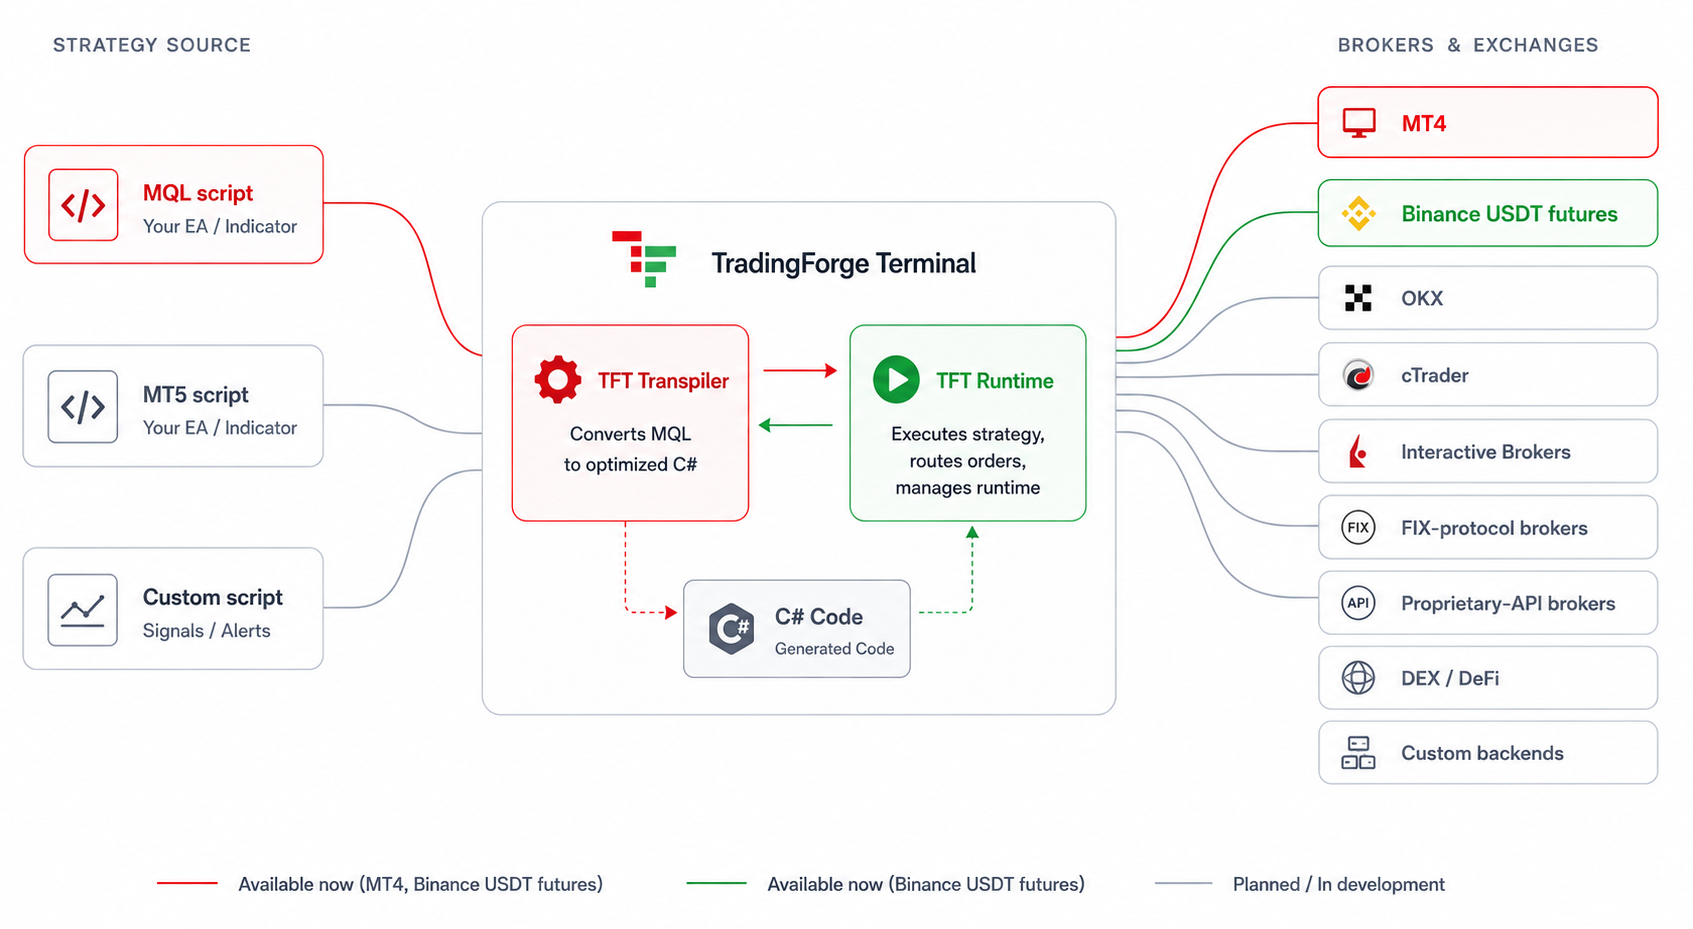
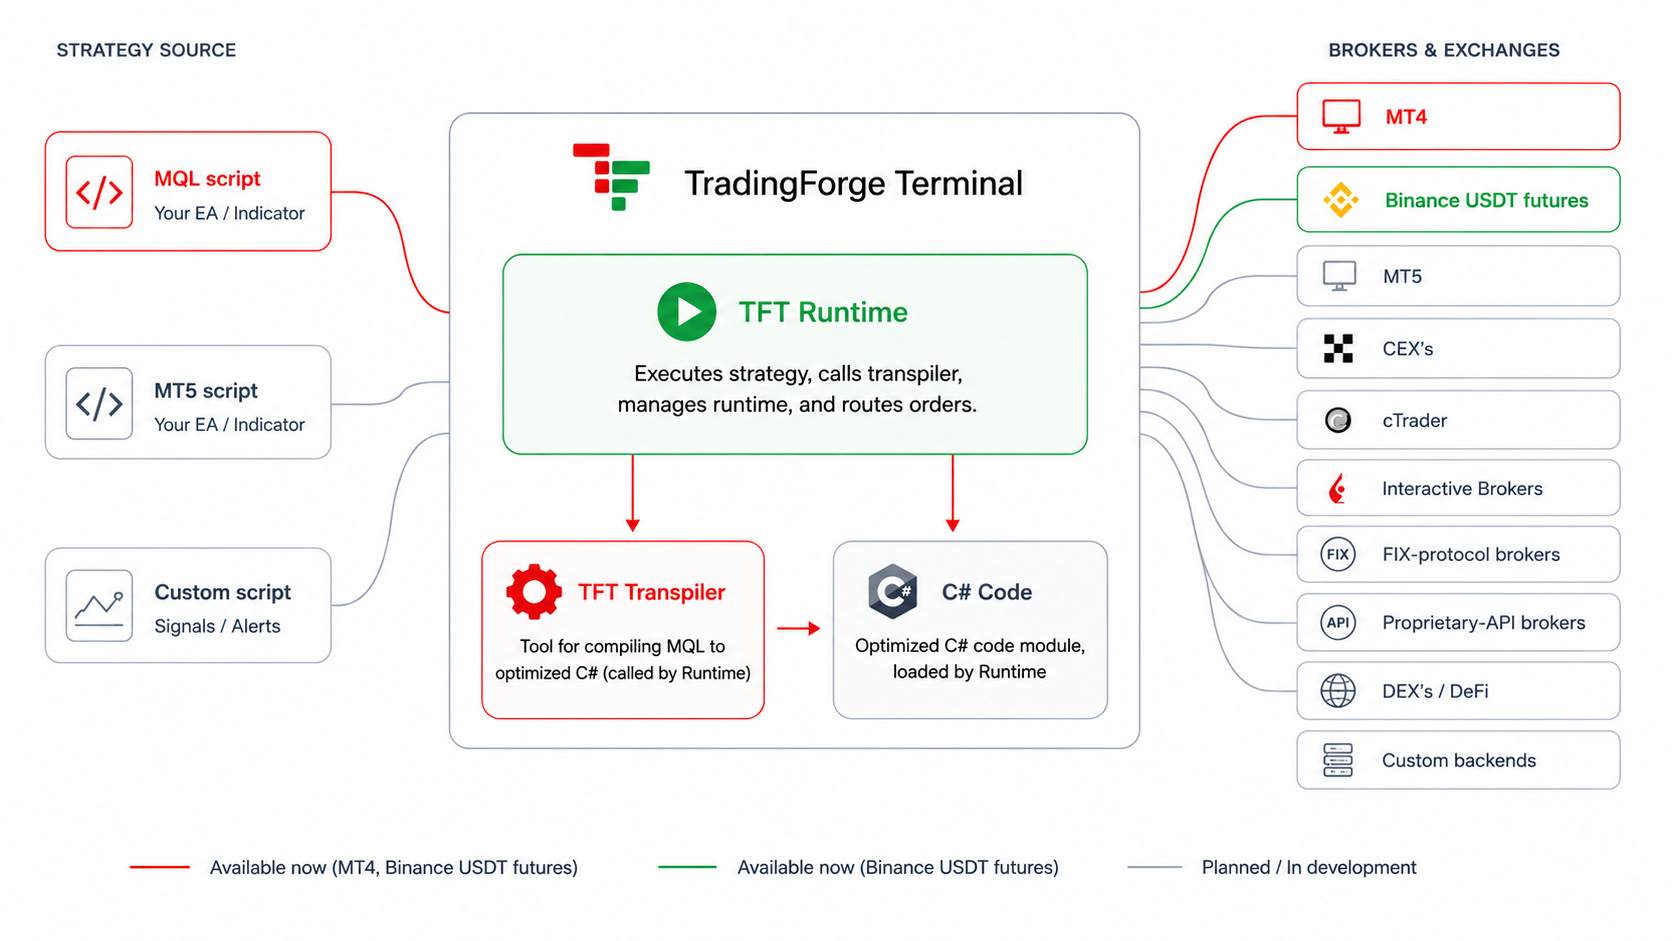
docs: update README from public-repo source

diff --git a/README.md b/README.md
@@ -69,7 +69,7 @@ same EA that ran in MetaTrader runs here, against brokers MetaTrader never suppo
 the runtime, which routes orders to whichever venue you connect:
 
 <div align="center">
-  <img src="assets/hub.png" alt="Strategy scripts feed the TFT Runtime, which routes orders to MT4, Binance USDT futures, OKX, cTrader, Interactive Brokers and other venues" width="880">
+  <img src="assets/hub.png" alt="Strategy scripts (MQL, MT5, custom) feed the TradingForge Terminal, which transpiles and runs them, routing orders to MT4, Binance USDT futures and other brokers, exchanges and APIs" width="880">
 </div>
 
 ---
